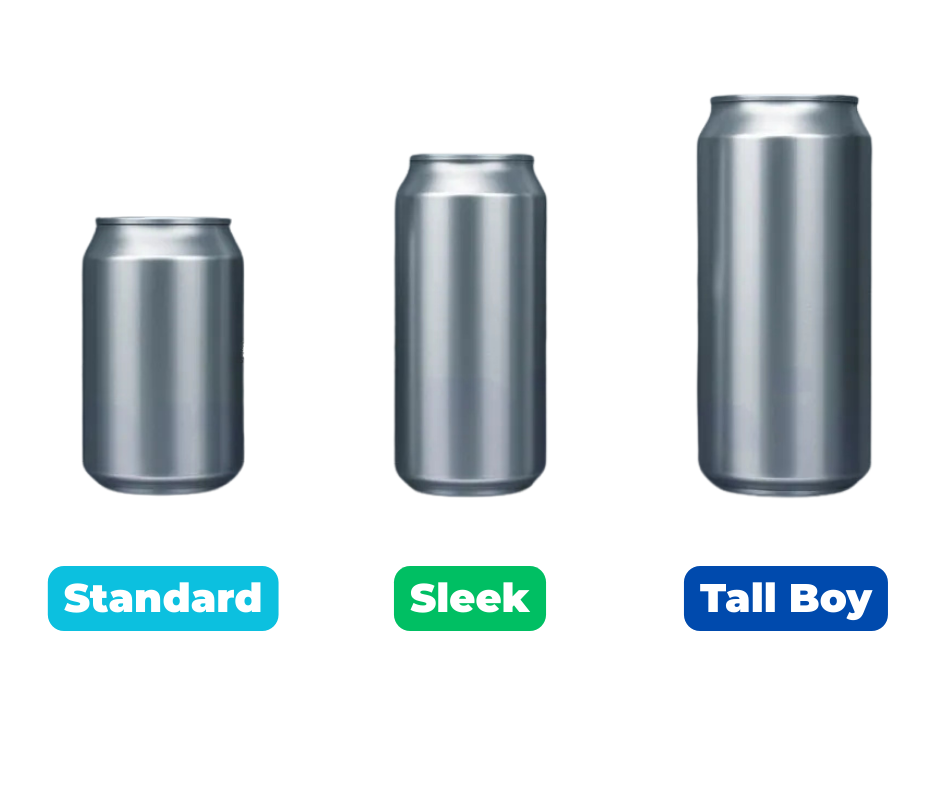
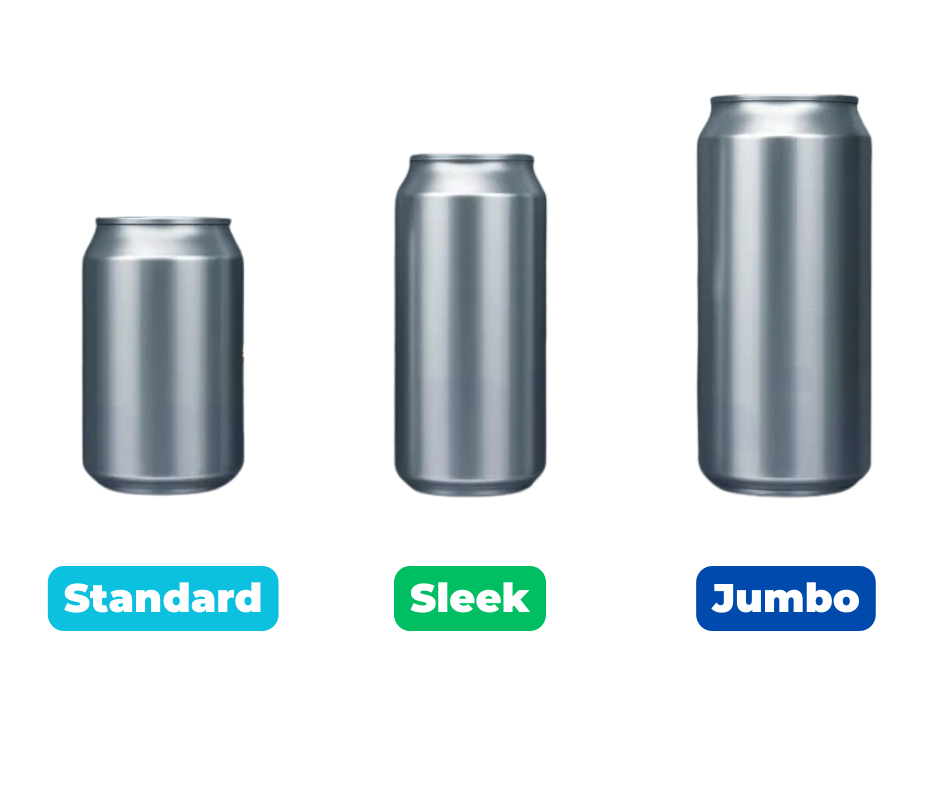
fix: Update can image label from Tall Boy to Jumbo per client

Changed region(s): [[0.7096, 0.7005, 0.9564, 0.8223]]

diff --git a/components/Sizes.tsx b/components/Sizes.tsx
@@ -42,7 +42,7 @@ const Sizes: React.FC = () => {
         <div className="p-2 sm:p-4 md:p-8">
           <img
             src="/images/can-sizes.png"
-            alt="ReLid USA Available Can Sizes - Standard (traditional 12oz), Sleek (taller slim design), Tall Boy (16/24oz large format)"
+            alt="ReLid USA Available Can Sizes - Standard (traditional 12oz), Sleek (taller slim design), Jumbo (16/24oz large format)"
             className="w-full h-auto"
           />
         </div>
